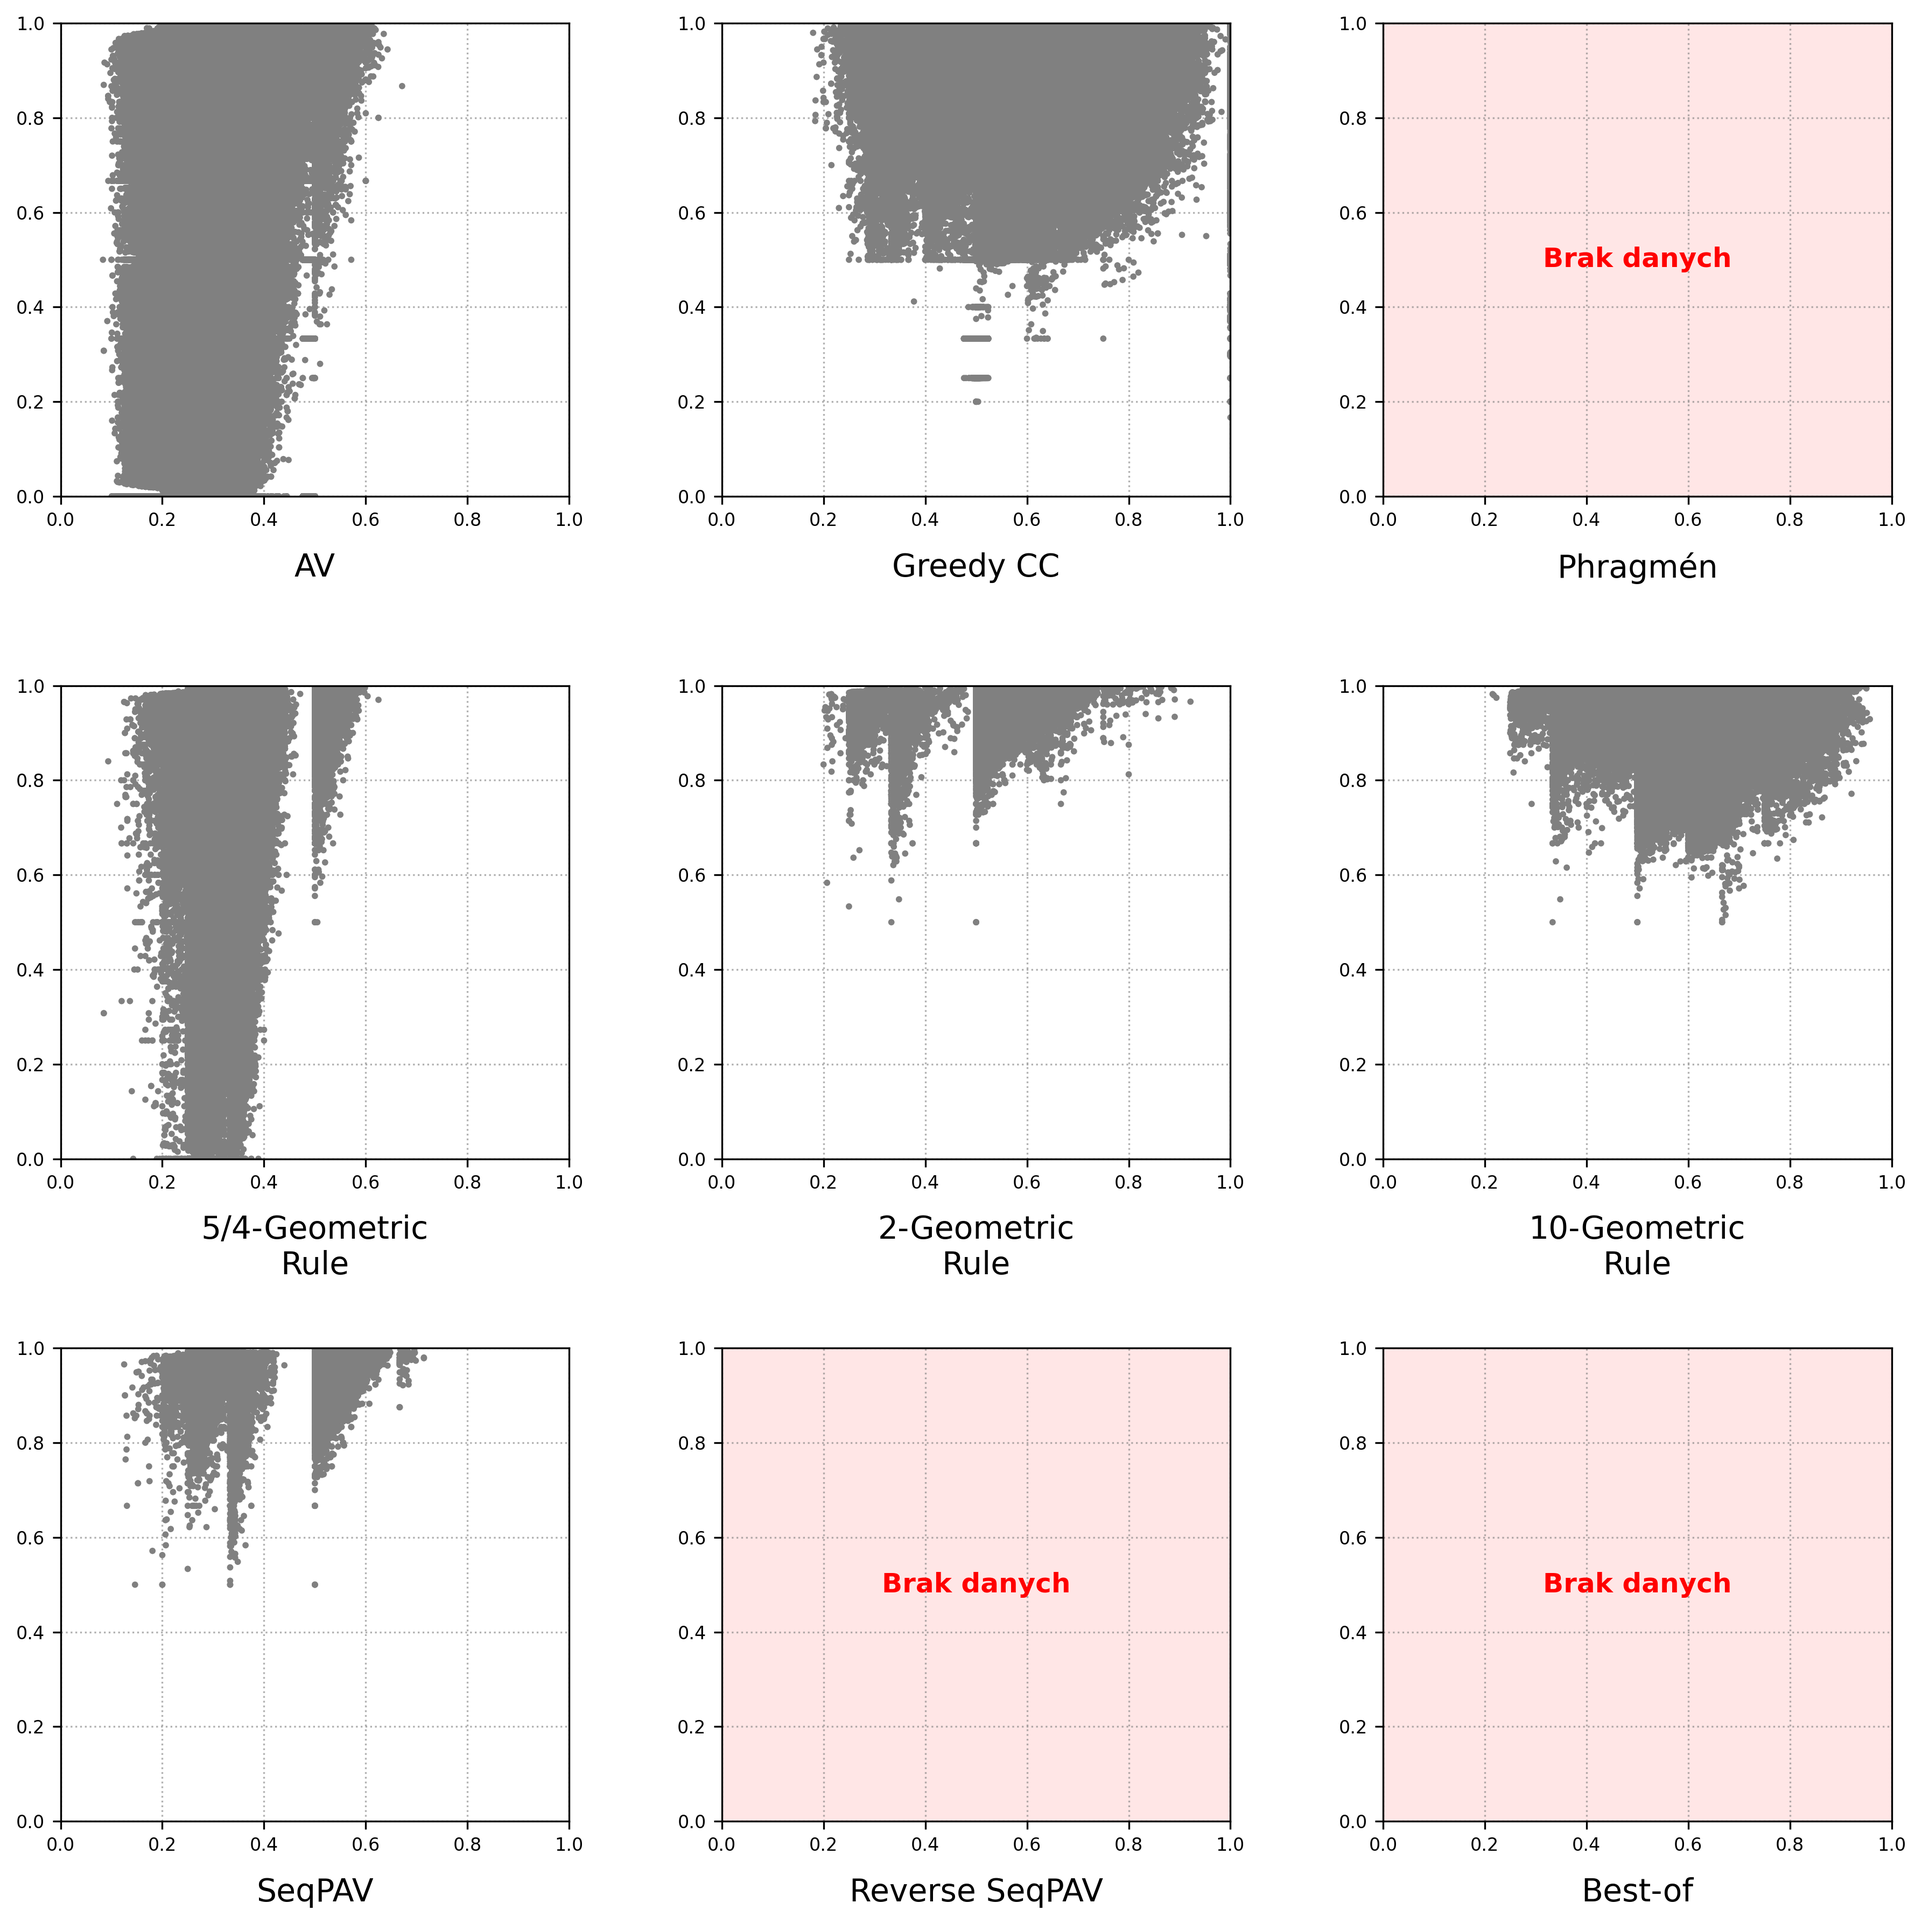
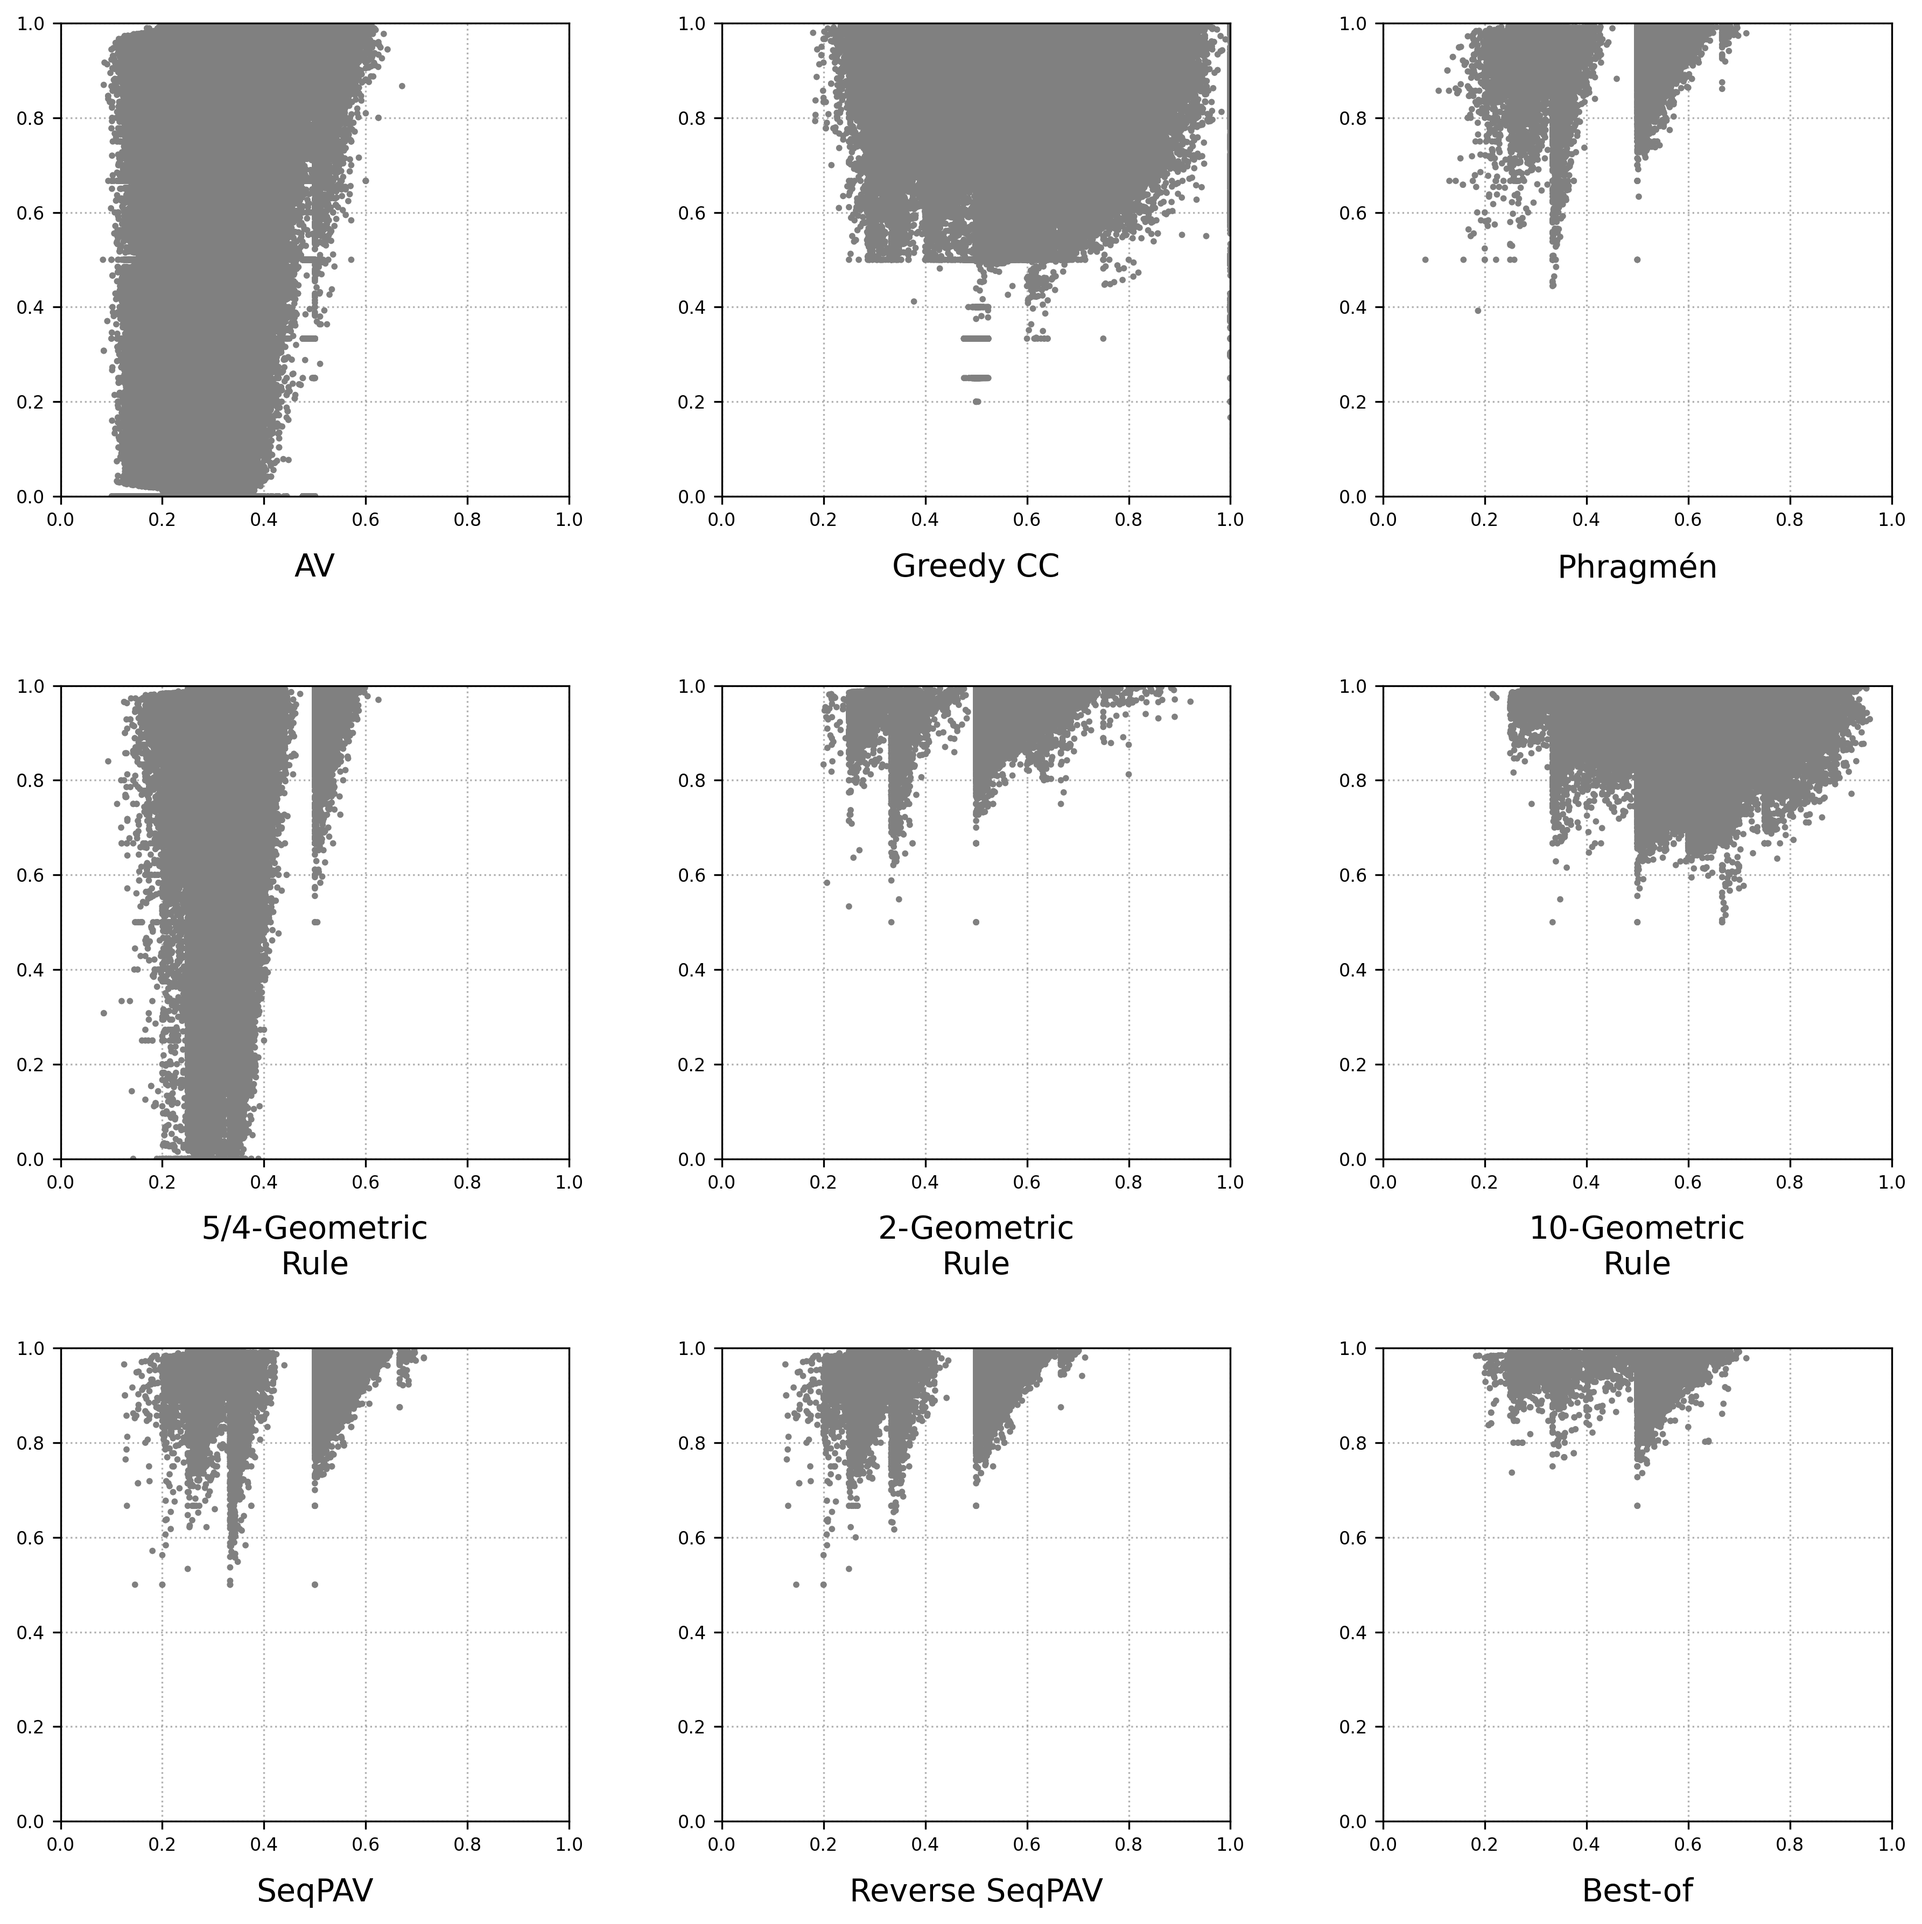
mes

Changed region(s): [[0.7151, 0.6833, 0.995, 0.9628], [0.7151, 0.0, 0.995, 0.2795], [0.3731, 0.6833, 0.6529, 0.9628]]

diff --git a/papers/proportional_rankings/proportional_rankings.py b/papers/proportional_rankings/proportional_rankings.py
@@ -149,7 +149,8 @@ def Reverse_Seq_PAV(profile: ApprovalProfile):
 def Phragmen(profile: ApprovalProfile):
     candidate_approval_voters_sets = {c: set() for c in profile.candidates}
     for i, ballot in enumerate(profile.ballots):
-        for candidate in ballot.approvals:
+        approvals = ballot.approvals if ballot.approvals else []
+        for candidate in approvals:
             candidate_approval_voters_sets[candidate].add(i)
 
     not_elected_candidates = list(profile.candidates)
@@ -192,7 +193,6 @@ def Phragmen(profile: ApprovalProfile):
 
         ranking.append(best_candidate)
         voters_loads = best_candidate_loads
-        print(voters_loads)
         not_elected_candidates.remove(best_candidate)
 
     return ranking
@@ -218,6 +218,57 @@ def Best_of(profile: ApprovalProfile, rule_args: list[tuple[Callable[[ApprovalPr
             best_ranking = ranking
 
     return best_ranking
+
+
+def Method_of_Equal_Shares(profile: ApprovalProfile):
+    voters_loads = [Fraction(1, 1) for i in range(len(profile.ballots))]
+
+    candidate_approval_voters_sets = {c: set() for c in profile.candidates}
+    for i, ballot in enumerate(profile.ballots):
+        approvals = ballot.approvals if ballot.approvals else []
+        for candidate in approvals:
+            candidate_approval_voters_sets[candidate].add(i)
+
+    not_elected_candidates = list(profile.candidates)
+    ranking = []
+
+    p = Fraction(len(profile.ballots), len(profile.candidates))
+
+    while not_elected_candidates:
+        min_q = Fraction(2,1)
+        best_candidate = None
+        for c in not_elected_candidates:
+            voters_approving_c = candidate_approval_voters_sets[c]
+            if not voters_approving_c:
+                continue
+            
+            voters_approving_c_loads_sum = sum(voters_loads[i] for i in voters_approving_c)
+            if voters_approving_c_loads_sum >= p:
+                voters_approving_c_loads = sorted([voters_loads[i] for i in voters_approving_c])
+                load_sum = Fraction(0, 1)
+                q = Fraction(0, 1)
+                for j, load in enumerate(voters_approving_c_loads):
+                    load_sum += load * (len(voters_approving_c_loads) - j)
+                    q += load
+                    if load_sum >= p:
+                        load_sum -= load * (len(voters_approving_c_loads) - j)
+                        q -= load
+                        frac = (p - load_sum) / (len(voters_approving_c_loads) - j)
+                        q += frac
+                        break
+                if q < min_q:
+                    min_q = q
+                    best_candidate = c
+
+        if best_candidate is not None:
+            ranking.append(best_candidate)
+            not_elected_candidates.remove(best_candidate)
+            for i in candidate_approval_voters_sets[best_candidate]:
+                voters_loads[i] = max(Fraction(0, 1), voters_loads[i] - min_q)
+        else:
+            break
+
+    return ranking + not_elected_candidates
 
 
 

diff --git a/papers/proportional_rankings/experiments_enhanced/plot_experiment_1_mes.py b/papers/proportional_rankings/experiments_enhanced/plot_experiment_1_mes.py
@@ -1,0 +1,41 @@
+from . import RESULTS_DIRECTORY_PATH, PLOTS_DIRECTORY_PATH
+import pandas as pd
+import matplotlib.pyplot as plt
+
+def plot_scatter_a_yr_mes():
+    # Wczytaj zbiór danych zawierający kolumny 'a' oraz 'y_r'
+    df = pd.read_csv(RESULTS_DIRECTORY_PATH / 'experiment_1_mes.csv')
+
+    # Inicjalizacja pojedynczego wykresu
+    fig, ax = plt.subplots(figsize=(6, 5))
+
+    # Wykres rozrzutu: brak parametru alpha (lub alpha=1.0) sprawia,
+    # że każdy punkt ma od razu maksymalną, stałą szarość.
+    ax.scatter(df['a'], df['y_r'], color='gray', s=10, edgecolors='none')
+
+    # Ustawienie zakresów osi od 0.0 do 1.0
+    ax.set_xlim(0.0, 1.0)
+    ax.set_ylim(0.0, 1.0)
+
+    # Definicja podziałki (ticks)
+    ax.set_xticks([0.0, 0.2, 0.4, 0.6, 0.8, 1.0])
+    ax.set_yticks([0.0, 0.2, 0.4, 0.6, 0.8, 1.0])
+
+    # Włączenie siatki z liniami przerywanymi
+    ax.grid(True, linestyle=':', color='gray', alpha=0.7)
+
+    # Etykiety osi
+    ax.set_xlabel('a', fontsize=12)
+    ax.set_ylabel('y_r', fontsize=12)
+
+    # Konfiguracja parametrów ticków
+    ax.tick_params(axis='both', which='major', labelsize=10)
+
+    # Zapisanie wykresu
+    output_name = 'plot_scatter_a_yr_mes.png'
+    plt.savefig(PLOTS_DIRECTORY_PATH / output_name, bbox_inches='tight', dpi=300)
+    print(f"Plot saved as '{output_name}'")
+
+
+if __name__ == "__main__":
+    plot_scatter_a_yr_mes()

diff --git a/papers/proportional_rankings/experiments/experiment_1_best_of.py b/papers/proportional_rankings/experiments/experiment_1_best_of.py
@@ -2,21 +2,34 @@ import os
 from . import RESULTS_DIRECTORY_PATH, DATASETS_DIRECTORY_PATH
 from ..proportional_rankings import experiment_1_one_rule, Best_of, Seq_Thile, Reverse_Seq_PAV, Phragmen, AV
 
-RULES = [AV, Seq_Thile, Phragmen, 
-              Seq_Thile, Seq_Thile, Seq_Thile,
-              Seq_Thile, Reverse_Seq_PAV]
+RULES = [
+    AV, 
+    Seq_Thile, 
+    Phragmen, 
+    Seq_Thile, 
+    Seq_Thile, 
+    Seq_Thile,
+    Seq_Thile, 
+    Reverse_Seq_PAV
+]
 
-RULE_ARGS = [{}, {"w": "GreedyCC"}, {}, 
-                  {"w": "5/4-Geometric"}, {"w": "2-Geometric"}, {"w": "10-Geometric"},
-                  {"w": "SeqPav"}, {}]
+RULE_ARGS = [
+    {}, 
+    {"w": "GreedyCC"}, 
+    {}, 
+    {"w": "5/4-Geometric"}, 
+    {"w": "2-Geometric"}, 
+    {"w": "10-Geometric"},
+    {"w": "SeqPav"}, 
+    {}
+]
 
 PARAMS = {
     "path_to_results": RESULTS_DIRECTORY_PATH / "experiment_1_bestof.csv",
     "path_to_profiles": DATASETS_DIRECTORY_PATH,
     "rule": Best_of,
-    "rule_args": [(rule, args) for rule, args in zip(RULES, RULE_ARGS)],
+    "rule_args": {"rule_args": [(rule, args) for rule, args in zip(RULES, RULE_ARGS)]},
     "n_jobs": -1,
-    "n_profiles_per_file": -10,
     "verbose": True
 }
 

diff --git a/papers/proportional_rankings/experiments_enhanced/experiment_1_mes.py b/papers/proportional_rankings/experiments_enhanced/experiment_1_mes.py
@@ -1,0 +1,26 @@
+import os
+from . import RESULTS_DIRECTORY_PATH, DATASETS_DIRECTORY_PATH
+from functools import partial
+from ..proportional_rankings import experiment_1_one_rule, Method_of_Equal_Shares
+from votekit.ballot_generator.std_generator.approval_impartial_culture import approval_ic_profile_generator, approval_biased_profile_generator
+
+
+
+PARAMS = {
+    "path_to_results": RESULTS_DIRECTORY_PATH / "experiment_1_mes.csv",
+    "path_to_profiles": DATASETS_DIRECTORY_PATH,
+    "rule": Method_of_Equal_Shares,
+    "n_jobs": -1,
+    "verbose": True
+}
+
+
+
+def run_experiment_1_mes():
+    print(f"Starting experiment_1_mes")
+    experiment_1_one_rule(**PARAMS)
+    print(f"Completed experiment_1_mes")
+
+
+if __name__ == "__main__":
+    run_experiment_1_mes()

diff --git a/papers/proportional_rankings/experiments/plot_experiment_1_all.py b/papers/proportional_rankings/experiments/plot_experiment_1_all.py
@@ -13,8 +13,8 @@ def plot_all_rules_grid():
         {"title": "2-Geometric\nRule", "suffix": "2_geometric"},
         {"title": "10-Geometric\nRule", "suffix": "10_geometric"},
         {"title": "SeqPAV", "suffix": "seqpav"},
-        {"title": "Reverse SeqPAV", "suffix": "reverse_seqpav"},
-        {"title": "Best-of", "suffix": "best_of"},
+        {"title": "Reverse SeqPAV", "suffix": "revseqpav"},
+        {"title": "Best-of", "suffix": "bestof"},
     ]
 
     # Utworzenie siatki 3x3

diff --git a/papers/proportional_rankings/experiments_enhanced/__init__.py b/papers/proportional_rankings/experiments_enhanced/__init__.py
@@ -1,0 +1,10 @@
+from pathlib import Path
+
+RESULTS_DIRECTORY_PATH = Path(__file__).resolve().parent / "results"
+RESULTS_DIRECTORY_PATH.mkdir(exist_ok=True)
+
+PLOTS_DIRECTORY_PATH = Path(__file__).resolve().parent / "plots"
+PLOTS_DIRECTORY_PATH.mkdir(exist_ok=True)
+
+DATASETS_DIRECTORY_PATH = Path(__file__).resolve().parent / "datasets"
+DATASETS_DIRECTORY_PATH.mkdir(exist_ok=True)

diff --git a/papers/proportional_rankings/experiments_enhanced/README.md b/papers/proportional_rankings/experiments_enhanced/README.md
@@ -1,0 +1,6 @@
+# Experiments
+
+- experiments_1 - Figure 1: Proportion of manipulable elections depending on
+orness of $f^i-AV$, where $n = 25$
+
+- experiments_2 - Figure 2: Proportion of manipulable elections depending on number of voters, where $m = 5$
